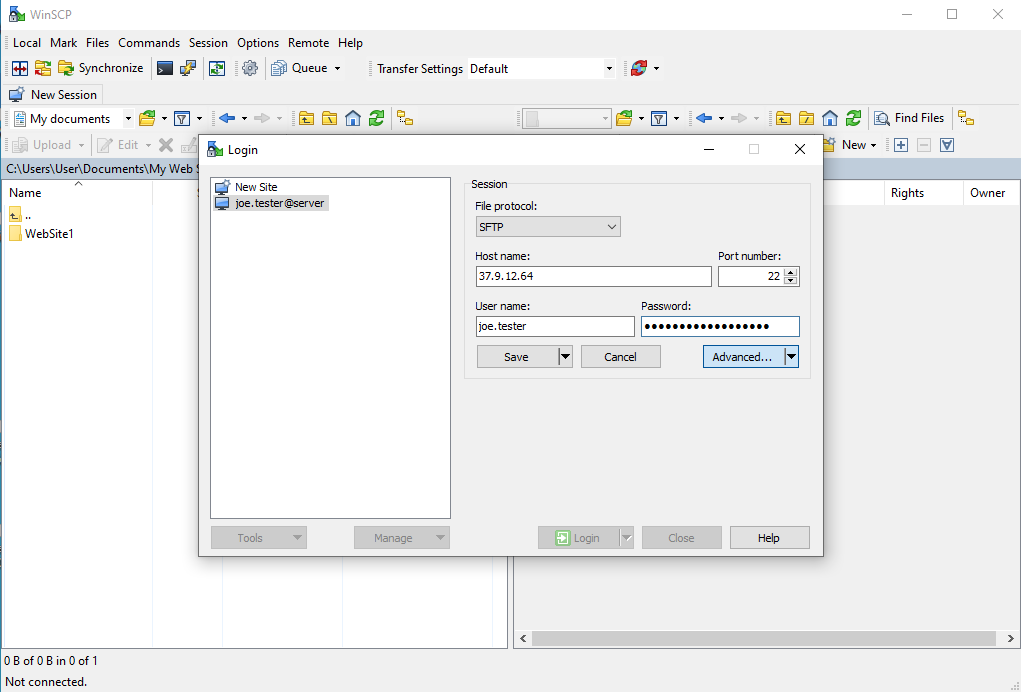
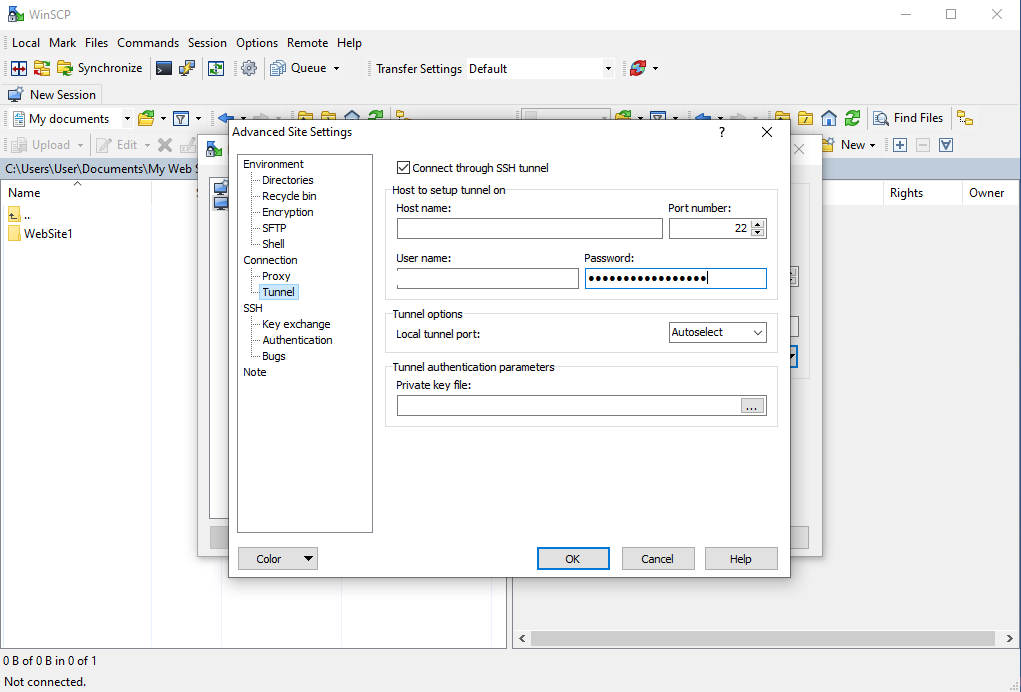
winscp update

diff --git a/docs/working-in-your-lab/technical-tools/winscp.md b/docs/working-in-your-lab/technical-tools/winscp.md
@@ -1,12 +1,12 @@
 ---
 title: WinSCP
 permalink: /working-in-your-lab/technical-tools/winscp
-sidebarDepth: 3
+sidebarDepth: 1
 ---
 
 # WinSCP
 
-[WinSCP](https://winscp.net/) is an open source SFTP, FTP, WebDAV, S3 client and SCP client for Windows. It is mainly used for file transfer between a local compute and a remote server.
+[WinSCP](https://winscp.net/) is an open source data transfer client for Windows that work with commonly used transfer protocols including SFTP, S3 and SCP. If your host organization allows, you can use WinSCP for file transfers and synchronization of folders between your local machine and your lab machines.
 
 [[toc]]
 
@@ -15,35 +15,54 @@ sidebarDepth: 3
 - A [working connection](/getting-started/) to your lab.
 :::
 
-## Download and install
+## Install
 
 Download WinSCP from [winscp.net](https://winscp.net/eng/download.php) and install the software. This may required administrator privileges.
 
-## Connection tunnelling
+## Configure
 
-In order to reach an (s)ftp destination behind another server, we can use [SSH tunneling](https://winscp.net/eng/docs/tunneling).
+::: tip 
+This section configures WinSCP to connect your local machine to your [home machine](/faq/compute/#machine-types). Additional configurations will be needed for connections to iaas and blue machines.
+:::
 
-In the session we fill up the host name of a destination server where the sFTP actually is.
+You will see the **`Login`** screen when you start WinSCP for the first time. 
 
 ![SSH Tunnel - Step 1](./images/tunnel_1.png "SSH Tunnel - Step 1")
 
-Then in advanced settings as shown in the picture we follow with defining SSH Tunnel.
+In this **`Session tab`** insert: 
+
+- File protocol: **`SFTP`**
+- Host name: **`10.5.5.12`**
+- Protocol: **`22`**
+- User name: **`<your-username>`**
+- Password: **`<your-ssh-password>`**
+
+Click **`Advanced`** and select **`Tunnel`**: 
 
 ![SSH Tunnel - Step 2](./images/tunnel_2.png "SSH Tunnel - Step 2")
 
-Under the `Connection > Tunnel` option we enable `Connect through SSH tunnel` and fill up the host name of SSH entry server. We can use the username and provide password later when connecting, if we do not want to keep it saved.
+In the **`Tunnel tab`** insert: 
 
-![SSH Tunnel - Step 3](./images/tunnel_2.png "SSH Tunnel - Step 3")
+- Connect through SSH tunnel: **`Check`**
+- Host name: **`<your-lab-IP>`** (usually starts with 10.42.130-something)
+- Protocol: **`22`**
+- User name: **`<your-username>`**
+- Password: **`<your-ssh-password>`**
 
-Once we confirmed the advanced settings we get back to previous windows and when we hit login WinSCP will first connect to SSH entry server to open a tunnel and then our destination server.
+Click **`Ok`** when completed.
 
-![SSH Tunnel - Step 4](./images/tunnel_4.png "SSH Tunnel - Step 4")
+Once you have confirmed the advanced settings you will get back to previous window. Hit **`Login`**.
 
-## Synchronization
+![SSH Tunnel - Step 4](./images/tunnel_3.png "SSH Tunnel - Step 4")
 
-[Synchronization](https://winscp.net/eng/docs/task_synchronize) is an additional feature that provides advanced copying. In cases when only a subset of updated files or only a new files have to be copied a lot of time can be saved compared to normal copy in WinSCP, which transfers all of the files.
+With a little bit of luck, you should be able to see the files in your lab on the right side of your screen.
 
-When selected the folder to be synchronized this option can be found in `Commands` menu as `Synchronize...` (Ctrl+S).
+
+## Synchronize
+
+[Synchronization](https://winscp.net/eng/docs/task_synchronize) is an additional feature that provides advanced copying. For example, when only a subset of updated files or only a new files have to be copied a lot of time can be saved compared to normal copy in WinSCP, which transfers all of the files every time your transfer a folder.
+
+When selected the folder to be synchronized this option can be found in **`Commands`** menu as **`Synchronize...`** (Ctrl+S).
 
 ![Synchronization - Step 1](./images/sync_1.png "Synchronization - Step 1")
 
@@ -51,10 +70,16 @@ Synchronization allows multiple adjustments such as synchronization towards targ
 
 ![Synchronization - Step 2](./images/sync_2.png "Synchronization - Step 2")
 
-When confirmed a comparison is done by WinSCP, where one choose from the files to be synchronized and confirm.
+::: warning Be careful!
+Selecting **`Both`** or **`Local`** targets will download data from your lab to your local machine. It is your responsibility to only use this configuration for folders in your lab that contains non-sensitive data that you can keep on your local machine.
+:::
+
+When confirmed, a file comparison is done by WinSCP, where one can choose files to be synchronized. Click **`Ok`** to confirm.
 
 ![Synchronization - Step 3](./images/sync_3.png "Synchronization - Step 3")
 
-When synchronization is completed we get a confirmation status.
+You will get a confirmation status when your synchronization is completed.
 
 ![Synchronization - Step 4](./images/sync_4.png "Synchronization - Step 4")
+
+
